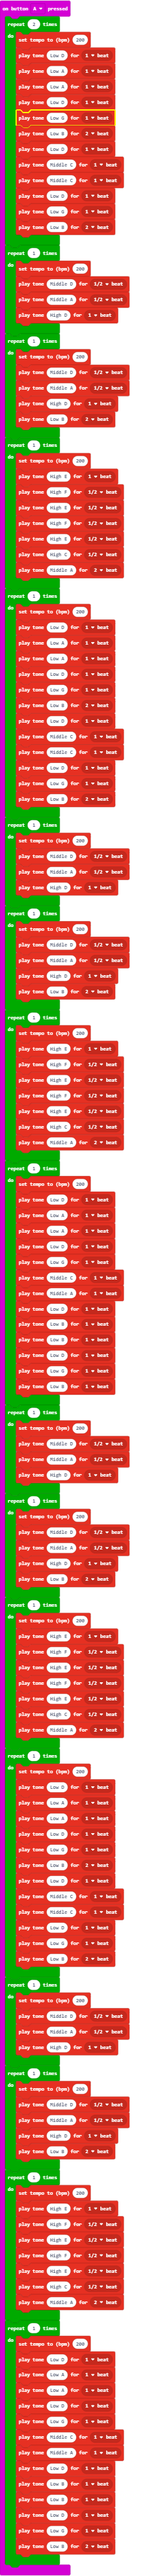
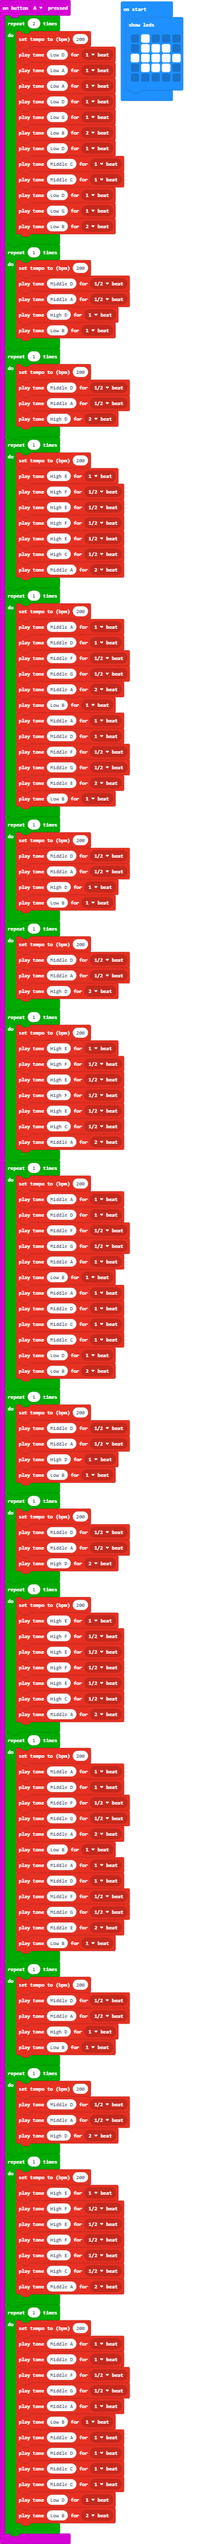
Update pxt.json, main.blocks, main.ts

diff --git a/main.ts b/main.ts
@@ -19,13 +19,13 @@ input.onButtonPressed(Button.A, function () {
         music.playTone(294, music.beat(BeatFraction.Half))
         music.playTone(440, music.beat(BeatFraction.Half))
         music.playTone(587, music.beat(BeatFraction.Whole))
+        music.playTone(247, music.beat(BeatFraction.Whole))
     }
     for (let index = 0; index < 1; index++) {
         music.setTempo(200)
         music.playTone(294, music.beat(BeatFraction.Half))
         music.playTone(440, music.beat(BeatFraction.Half))
-        music.playTone(587, music.beat(BeatFraction.Whole))
-        music.playTone(247, music.beat(BeatFraction.Double))
+        music.playTone(587, music.beat(BeatFraction.Double))
     }
     for (let index = 0; index < 1; index++) {
         music.setTempo(200)
@@ -39,133 +39,138 @@ input.onButtonPressed(Button.A, function () {
     }
     for (let index = 0; index < 1; index++) {
         music.setTempo(200)
-        music.playTone(147, music.beat(BeatFraction.Whole))
-        music.playTone(220, music.beat(BeatFraction.Whole))
-        music.playTone(220, music.beat(BeatFraction.Whole))
-        music.playTone(147, music.beat(BeatFraction.Whole))
-        music.playTone(196, music.beat(BeatFraction.Whole))
-        music.playTone(247, music.beat(BeatFraction.Double))
-        music.playTone(147, music.beat(BeatFraction.Whole))
-        music.playTone(262, music.beat(BeatFraction.Whole))
-        music.playTone(262, music.beat(BeatFraction.Whole))
-        music.playTone(147, music.beat(BeatFraction.Whole))
-        music.playTone(196, music.beat(BeatFraction.Whole))
-        music.playTone(247, music.beat(BeatFraction.Double))
-    }
-    for (let index = 0; index < 1; index++) {
-        music.setTempo(200)
-        music.playTone(294, music.beat(BeatFraction.Half))
-        music.playTone(440, music.beat(BeatFraction.Half))
-        music.playTone(587, music.beat(BeatFraction.Whole))
-    }
-    for (let index = 0; index < 1; index++) {
-        music.setTempo(200)
-        music.playTone(294, music.beat(BeatFraction.Half))
-        music.playTone(440, music.beat(BeatFraction.Half))
-        music.playTone(587, music.beat(BeatFraction.Whole))
-        music.playTone(247, music.beat(BeatFraction.Double))
-    }
-    for (let index = 0; index < 1; index++) {
-        music.setTempo(200)
-        music.playTone(659, music.beat(BeatFraction.Whole))
-        music.playTone(698, music.beat(BeatFraction.Half))
-        music.playTone(659, music.beat(BeatFraction.Half))
-        music.playTone(698, music.beat(BeatFraction.Half))
-        music.playTone(659, music.beat(BeatFraction.Half))
-        music.playTone(523, music.beat(BeatFraction.Half))
-        music.playTone(440, music.beat(BeatFraction.Double))
-    }
-    for (let index = 0; index < 1; index++) {
-        music.setTempo(200)
-        music.playTone(147, music.beat(BeatFraction.Whole))
-        music.playTone(220, music.beat(BeatFraction.Whole))
-        music.playTone(220, music.beat(BeatFraction.Whole))
-        music.playTone(147, music.beat(BeatFraction.Whole))
-        music.playTone(196, music.beat(BeatFraction.Whole))
-        music.playTone(262, music.beat(BeatFraction.Whole))
         music.playTone(440, music.beat(BeatFraction.Whole))
-        music.playTone(147, music.beat(BeatFraction.Whole))
-        music.playTone(247, music.beat(BeatFraction.Whole))
-        music.playTone(247, music.beat(BeatFraction.Whole))
-        music.playTone(147, music.beat(BeatFraction.Whole))
-        music.playTone(196, music.beat(BeatFraction.Whole))
-        music.playTone(247, music.beat(BeatFraction.Whole))
-    }
-    for (let index = 0; index < 1; index++) {
-        music.setTempo(200)
-        music.playTone(294, music.beat(BeatFraction.Half))
-        music.playTone(440, music.beat(BeatFraction.Half))
-        music.playTone(587, music.beat(BeatFraction.Whole))
-    }
-    for (let index = 0; index < 1; index++) {
-        music.setTempo(200)
-        music.playTone(294, music.beat(BeatFraction.Half))
-        music.playTone(440, music.beat(BeatFraction.Half))
-        music.playTone(587, music.beat(BeatFraction.Whole))
-        music.playTone(247, music.beat(BeatFraction.Double))
-    }
-    for (let index = 0; index < 1; index++) {
-        music.setTempo(200)
-        music.playTone(659, music.beat(BeatFraction.Whole))
-        music.playTone(698, music.beat(BeatFraction.Half))
-        music.playTone(659, music.beat(BeatFraction.Half))
-        music.playTone(698, music.beat(BeatFraction.Half))
-        music.playTone(659, music.beat(BeatFraction.Half))
-        music.playTone(523, music.beat(BeatFraction.Half))
+        music.playTone(294, music.beat(BeatFraction.Whole))
+        music.playTone(349, music.beat(BeatFraction.Half))
+        music.playTone(392, music.beat(BeatFraction.Half))
         music.playTone(440, music.beat(BeatFraction.Double))
-    }
-    for (let index = 0; index < 1; index++) {
-        music.setTempo(200)
-        music.playTone(147, music.beat(BeatFraction.Whole))
-        music.playTone(220, music.beat(BeatFraction.Whole))
-        music.playTone(220, music.beat(BeatFraction.Whole))
-        music.playTone(147, music.beat(BeatFraction.Whole))
-        music.playTone(196, music.beat(BeatFraction.Whole))
-        music.playTone(247, music.beat(BeatFraction.Double))
-        music.playTone(147, music.beat(BeatFraction.Whole))
-        music.playTone(262, music.beat(BeatFraction.Whole))
-        music.playTone(262, music.beat(BeatFraction.Whole))
-        music.playTone(147, music.beat(BeatFraction.Whole))
-        music.playTone(196, music.beat(BeatFraction.Whole))
-        music.playTone(247, music.beat(BeatFraction.Double))
-    }
-    for (let index = 0; index < 1; index++) {
-        music.setTempo(200)
-        music.playTone(294, music.beat(BeatFraction.Half))
-        music.playTone(440, music.beat(BeatFraction.Half))
-        music.playTone(587, music.beat(BeatFraction.Whole))
-    }
-    for (let index = 0; index < 1; index++) {
-        music.setTempo(200)
-        music.playTone(294, music.beat(BeatFraction.Half))
-        music.playTone(440, music.beat(BeatFraction.Half))
-        music.playTone(587, music.beat(BeatFraction.Whole))
-        music.playTone(247, music.beat(BeatFraction.Double))
-    }
-    for (let index = 0; index < 1; index++) {
-        music.setTempo(200)
-        music.playTone(659, music.beat(BeatFraction.Whole))
-        music.playTone(698, music.beat(BeatFraction.Half))
-        music.playTone(659, music.beat(BeatFraction.Half))
-        music.playTone(698, music.beat(BeatFraction.Half))
-        music.playTone(659, music.beat(BeatFraction.Half))
-        music.playTone(523, music.beat(BeatFraction.Half))
-        music.playTone(440, music.beat(BeatFraction.Double))
-    }
-    for (let index = 0; index < 1; index++) {
-        music.setTempo(200)
-        music.playTone(147, music.beat(BeatFraction.Whole))
-        music.playTone(220, music.beat(BeatFraction.Whole))
-        music.playTone(220, music.beat(BeatFraction.Whole))
-        music.playTone(147, music.beat(BeatFraction.Whole))
-        music.playTone(196, music.beat(BeatFraction.Whole))
-        music.playTone(262, music.beat(BeatFraction.Whole))
+        music.playTone(247, music.beat(BeatFraction.Whole))
         music.playTone(440, music.beat(BeatFraction.Whole))
-        music.playTone(147, music.beat(BeatFraction.Whole))
+        music.playTone(294, music.beat(BeatFraction.Whole))
+        music.playTone(349, music.beat(BeatFraction.Half))
+        music.playTone(392, music.beat(BeatFraction.Half))
+        music.playTone(330, music.beat(BeatFraction.Double))
         music.playTone(247, music.beat(BeatFraction.Whole))
+    }
+    for (let index = 0; index < 1; index++) {
+        music.setTempo(200)
+        music.playTone(294, music.beat(BeatFraction.Half))
+        music.playTone(440, music.beat(BeatFraction.Half))
+        music.playTone(587, music.beat(BeatFraction.Whole))
         music.playTone(247, music.beat(BeatFraction.Whole))
+    }
+    for (let index = 0; index < 1; index++) {
+        music.setTempo(200)
+        music.playTone(294, music.beat(BeatFraction.Half))
+        music.playTone(440, music.beat(BeatFraction.Half))
+        music.playTone(587, music.beat(BeatFraction.Double))
+    }
+    for (let index = 0; index < 1; index++) {
+        music.setTempo(200)
+        music.playTone(659, music.beat(BeatFraction.Whole))
+        music.playTone(698, music.beat(BeatFraction.Half))
+        music.playTone(659, music.beat(BeatFraction.Half))
+        music.playTone(698, music.beat(BeatFraction.Half))
+        music.playTone(659, music.beat(BeatFraction.Half))
+        music.playTone(523, music.beat(BeatFraction.Half))
+        music.playTone(440, music.beat(BeatFraction.Double))
+    }
+    for (let index = 0; index < 1; index++) {
+        music.setTempo(200)
+        music.playTone(440, music.beat(BeatFraction.Whole))
+        music.playTone(294, music.beat(BeatFraction.Whole))
+        music.playTone(349, music.beat(BeatFraction.Half))
+        music.playTone(392, music.beat(BeatFraction.Half))
+        music.playTone(440, music.beat(BeatFraction.Whole))
+        music.playTone(247, music.beat(BeatFraction.Whole))
+        music.playTone(440, music.beat(BeatFraction.Whole))
+        music.playTone(294, music.beat(BeatFraction.Whole))
+        music.playTone(262, music.beat(BeatFraction.Whole))
+        music.playTone(262, music.beat(BeatFraction.Whole))
         music.playTone(147, music.beat(BeatFraction.Whole))
-        music.playTone(196, music.beat(BeatFraction.Whole))
+        music.playTone(247, music.beat(BeatFraction.Double))
+    }
+    for (let index = 0; index < 1; index++) {
+        music.setTempo(200)
+        music.playTone(294, music.beat(BeatFraction.Half))
+        music.playTone(440, music.beat(BeatFraction.Half))
+        music.playTone(587, music.beat(BeatFraction.Whole))
+        music.playTone(247, music.beat(BeatFraction.Whole))
+    }
+    for (let index = 0; index < 1; index++) {
+        music.setTempo(200)
+        music.playTone(294, music.beat(BeatFraction.Half))
+        music.playTone(440, music.beat(BeatFraction.Half))
+        music.playTone(587, music.beat(BeatFraction.Double))
+    }
+    for (let index = 0; index < 1; index++) {
+        music.setTempo(200)
+        music.playTone(659, music.beat(BeatFraction.Whole))
+        music.playTone(698, music.beat(BeatFraction.Half))
+        music.playTone(659, music.beat(BeatFraction.Half))
+        music.playTone(698, music.beat(BeatFraction.Half))
+        music.playTone(659, music.beat(BeatFraction.Half))
+        music.playTone(523, music.beat(BeatFraction.Half))
+        music.playTone(440, music.beat(BeatFraction.Double))
+    }
+    for (let index = 0; index < 1; index++) {
+        music.setTempo(200)
+        music.playTone(440, music.beat(BeatFraction.Whole))
+        music.playTone(294, music.beat(BeatFraction.Whole))
+        music.playTone(349, music.beat(BeatFraction.Half))
+        music.playTone(392, music.beat(BeatFraction.Half))
+        music.playTone(440, music.beat(BeatFraction.Double))
+        music.playTone(247, music.beat(BeatFraction.Whole))
+        music.playTone(440, music.beat(BeatFraction.Whole))
+        music.playTone(294, music.beat(BeatFraction.Whole))
+        music.playTone(349, music.beat(BeatFraction.Half))
+        music.playTone(392, music.beat(BeatFraction.Half))
+        music.playTone(330, music.beat(BeatFraction.Double))
+        music.playTone(247, music.beat(BeatFraction.Whole))
+    }
+    for (let index = 0; index < 1; index++) {
+        music.setTempo(200)
+        music.playTone(294, music.beat(BeatFraction.Half))
+        music.playTone(440, music.beat(BeatFraction.Half))
+        music.playTone(587, music.beat(BeatFraction.Whole))
+        music.playTone(247, music.beat(BeatFraction.Whole))
+    }
+    for (let index = 0; index < 1; index++) {
+        music.setTempo(200)
+        music.playTone(294, music.beat(BeatFraction.Half))
+        music.playTone(440, music.beat(BeatFraction.Half))
+        music.playTone(587, music.beat(BeatFraction.Double))
+    }
+    for (let index = 0; index < 1; index++) {
+        music.setTempo(200)
+        music.playTone(659, music.beat(BeatFraction.Whole))
+        music.playTone(698, music.beat(BeatFraction.Half))
+        music.playTone(659, music.beat(BeatFraction.Half))
+        music.playTone(698, music.beat(BeatFraction.Half))
+        music.playTone(659, music.beat(BeatFraction.Half))
+        music.playTone(523, music.beat(BeatFraction.Half))
+        music.playTone(440, music.beat(BeatFraction.Double))
+    }
+    for (let index = 0; index < 1; index++) {
+        music.setTempo(200)
+        music.playTone(440, music.beat(BeatFraction.Whole))
+        music.playTone(294, music.beat(BeatFraction.Whole))
+        music.playTone(349, music.beat(BeatFraction.Half))
+        music.playTone(392, music.beat(BeatFraction.Half))
+        music.playTone(440, music.beat(BeatFraction.Whole))
+        music.playTone(247, music.beat(BeatFraction.Whole))
+        music.playTone(440, music.beat(BeatFraction.Whole))
+        music.playTone(294, music.beat(BeatFraction.Whole))
+        music.playTone(262, music.beat(BeatFraction.Whole))
+        music.playTone(262, music.beat(BeatFraction.Whole))
+        music.playTone(147, music.beat(BeatFraction.Whole))
         music.playTone(247, music.beat(BeatFraction.Double))
     }
 })
+basic.showLeds(`
+    . # . . .
+    . # # # .
+    # # # # #
+    . # # # .
+    . . . . .
+    `)
